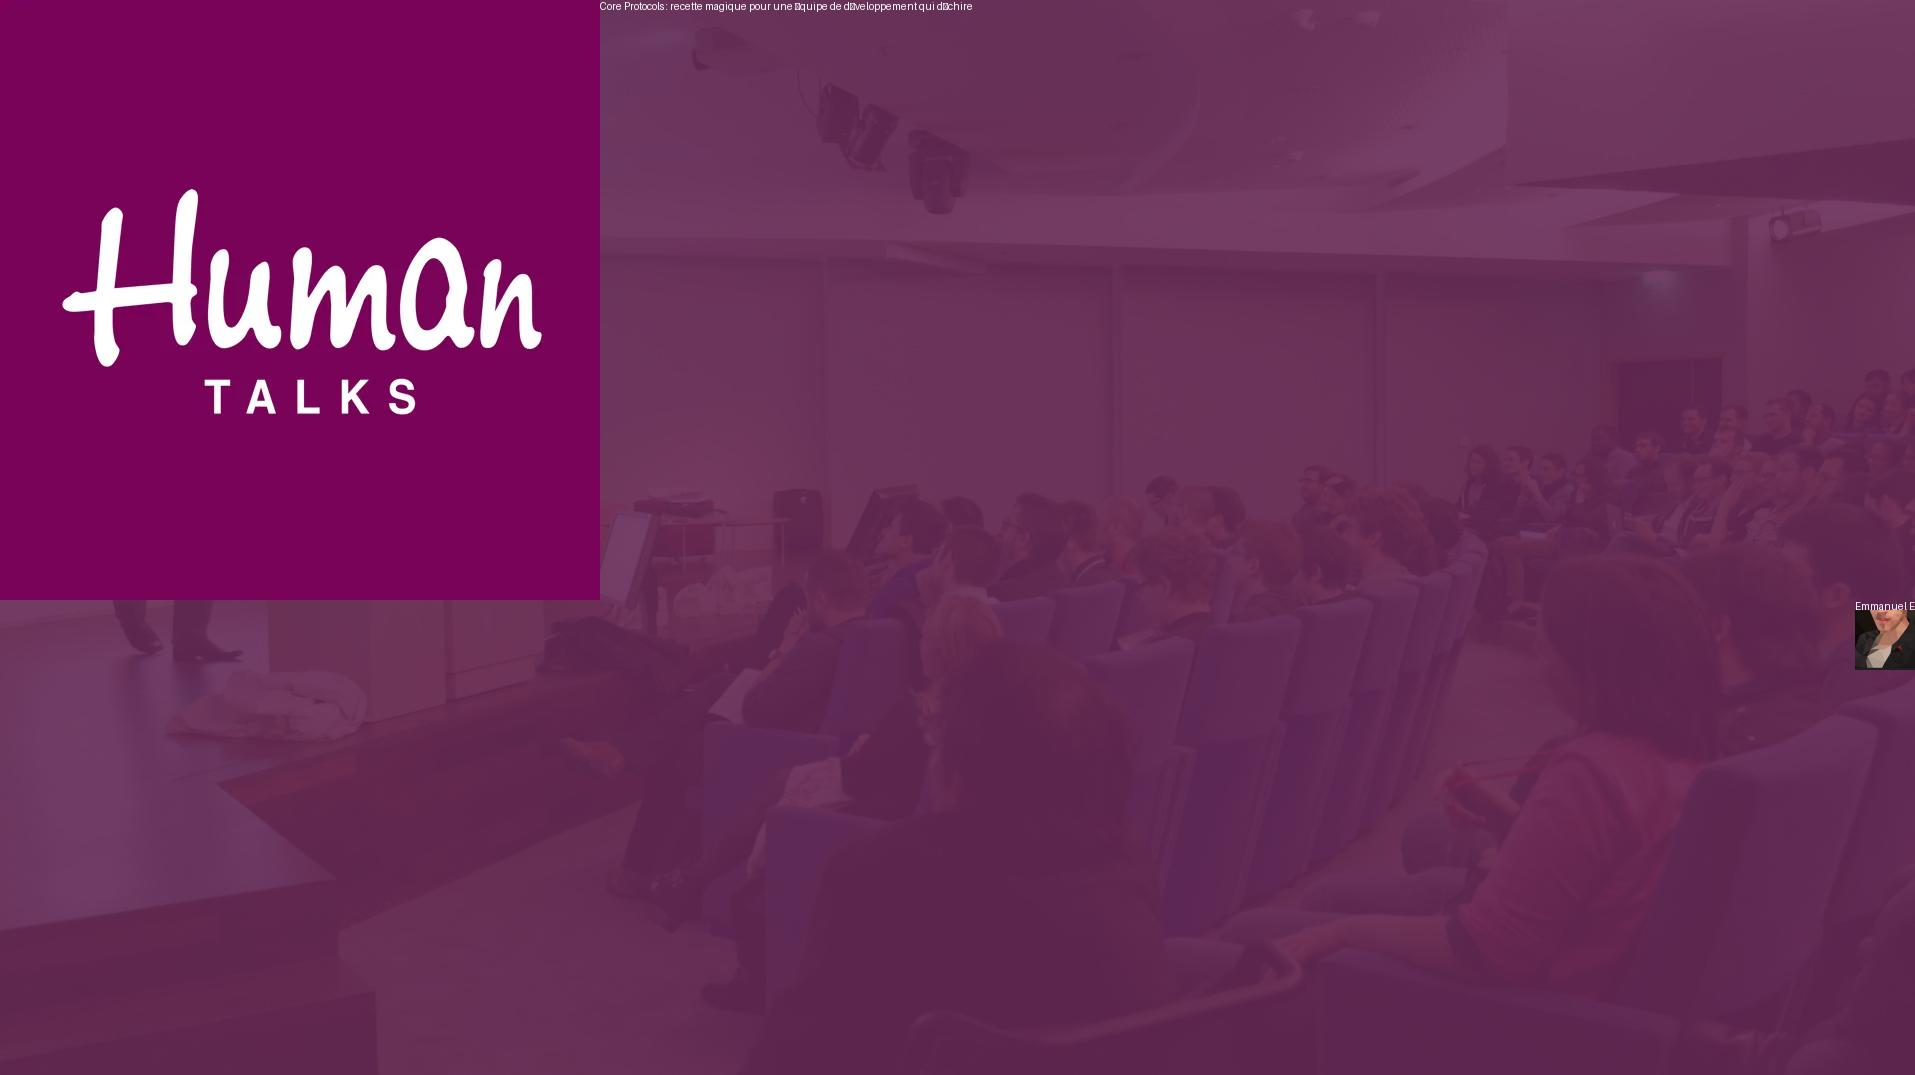
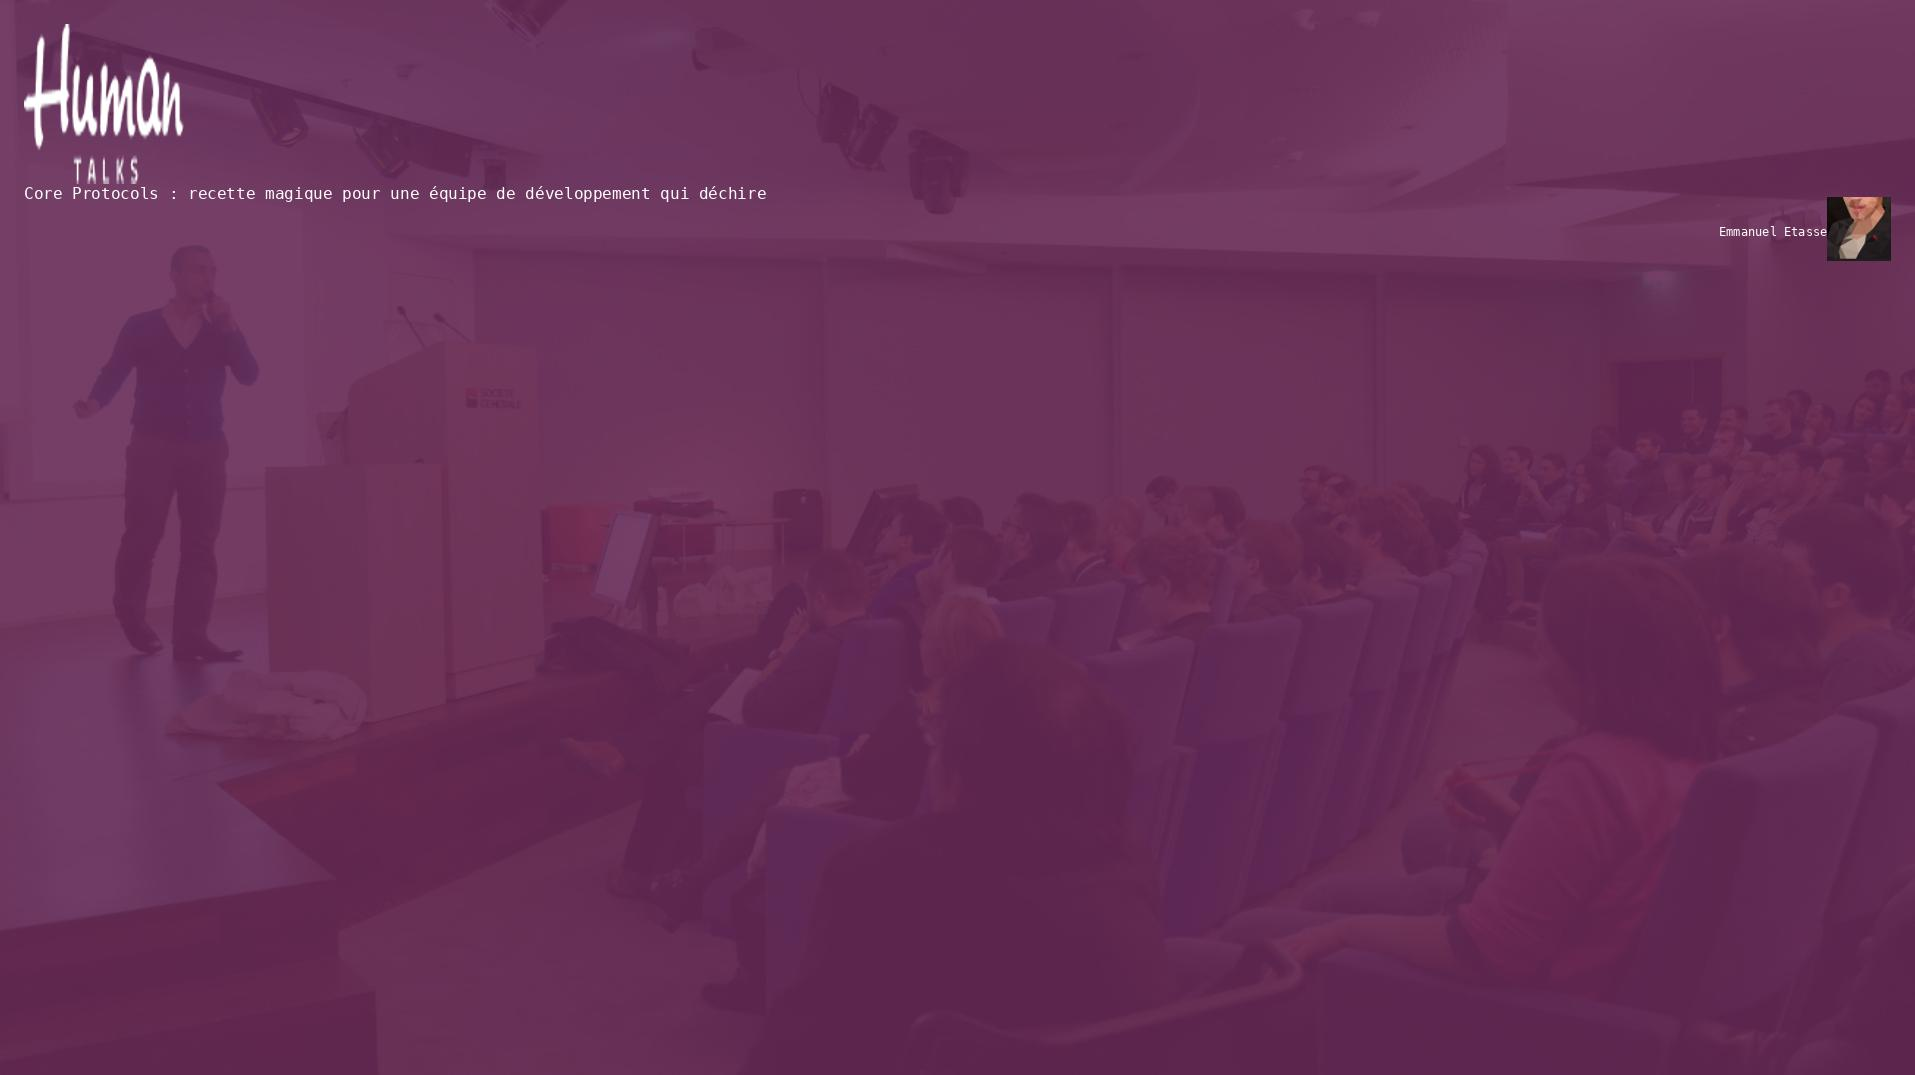
managing sizes

diff --git a/src/make_thumbnail.py b/src/make_thumbnail.py
@@ -12,30 +12,43 @@ overlay = Image.new('RGBA', background.size, (101, 41, 86, 230))
 # Paste the overlay on the background
 background = Image.alpha_composite(background, overlay)
 
-# Load the logo image
-logo = Image.open("template/ht/logo.webp").convert("RGBA")
+# Load the logo image and resize it
+logo = Image.open("template/ht/logo-no-bg.png").convert("RGBA").resize((160, int(160 * Image.open("template/ht/logo.webp").size[1] / Image.open("template/ht/logo.webp").size[0])))
 
 # Paste the logo on the background
-background.paste(logo, (0, 0), logo)
+background.paste(logo, (24, 24), logo)
 
 # Load the talk configuration
 with open("template/ht/talk1/config.yml", 'r') as stream:
     config = yaml.safe_load(stream)
 
-# Load the speaker image
-speaker_image = Image.open("template/ht/talk1/speaker.webp")
+# Load the speaker image and resize it
+speaker_image = Image.open("template/ht/talk1/speaker.webp").resize((64, 64))
 
-# Create a font for the text
-font = ImageFont.load_default()
+# Create a font for the title and speaker name
+title_font = ImageFont.truetype("DejaVuSansMono.ttf", 16)
+speaker_name_font = ImageFont.truetype("DejaVuSansMono.ttf", 12)
 
-# Draw the title and speaker name on the background
+# Draw the title on the background
 draw = ImageDraw.Draw(background)
-draw.text((logo.width, 0), config['title'], font=font, fill=(255, 255, 255))
-draw.text((background.width - speaker_image.width, logo.height), config['speaker_name'], font=font, fill=(255, 255, 255))
-speaker_name_size = draw.textbbox((0, 0), config['speaker_name'], font=font)
+title_text = config['title']
+title_left, title_top, title_right, title_bottom = draw.textbbox((0, 0), title_text, font=title_font)
+title_width = title_right - title_left
+title_height = title_bottom - title_top
+draw.text((24, 24 + logo.height), title_text, font=title_font, fill=(255, 255, 255))
+
+# Draw the speaker name on the background
+speaker_name_text = config['speaker_name']
+speaker_name_left, speaker_name_top, speaker_name_right, speaker_name_bottom = draw.textbbox((0, 0), speaker_name_text, font=speaker_name_font)
+speaker_name_width = speaker_name_right - speaker_name_left
+speaker_name_height = speaker_name_bottom - speaker_name_top
+speaker_name_y = 24 + logo.height + title_height + 24
+speaker_name_x = background.width - speaker_image.width - speaker_name_width - 24
+draw.text((speaker_name_x, speaker_name_y), speaker_name_text, font=speaker_name_font, fill=(255, 255, 255))
 
 # Paste the speaker image on the background
-background.paste(speaker_image, (background.width - speaker_image.width, logo.height + speaker_name_size[3]))
+speaker_image_y = speaker_name_y + (speaker_name_height - speaker_image.height) // 2
+background.paste(speaker_image, (background.width - speaker_image.width - 24, speaker_image_y))
 
 # Convert the image to RGB mode before saving
 background = background.convert("RGB")
